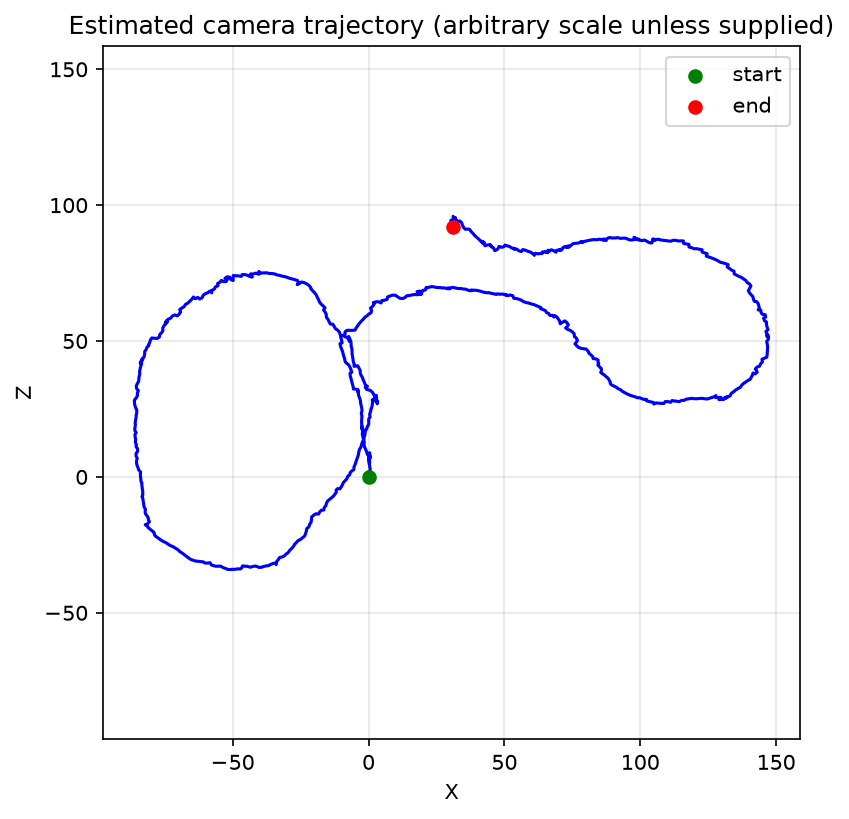
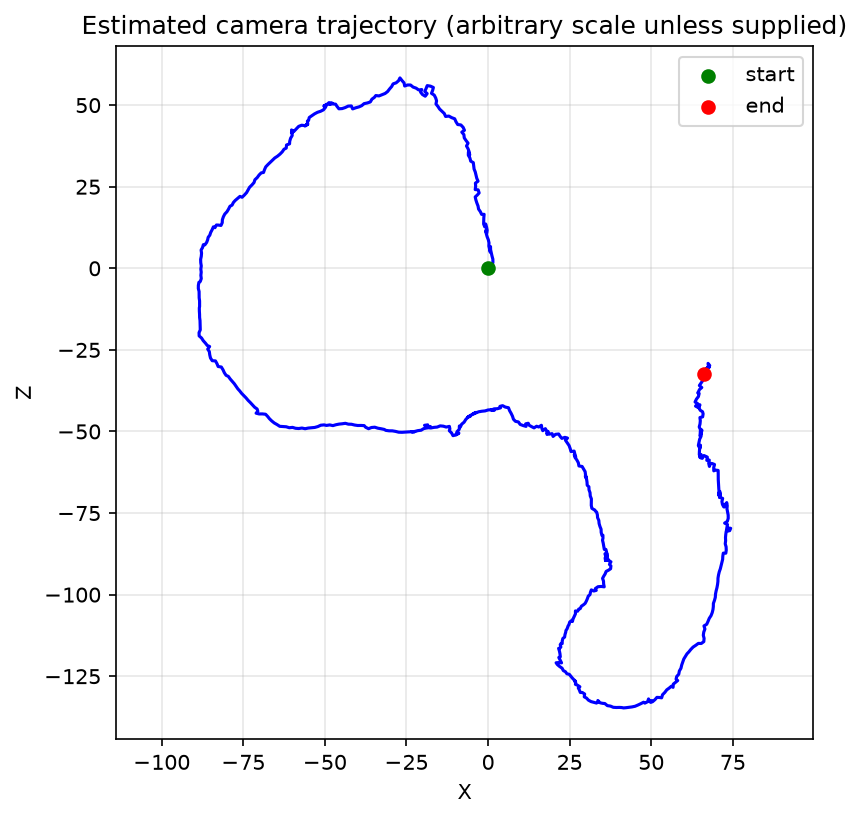
vo

diff --git a/orb-slam/monocular_vo_superpoints.py b/orb-slam/monocular_vo_superpoints.py
@@ -61,16 +61,6 @@ from lightglue import SuperPoint, LightGlue
 from lightglue.utils import load_image, rbd
 from superpoint_matcher import SuperPointMatcher
 
-try:
-    from python_orb_slam3 import ORBExtractor
-except ImportError as e:
-    raise ImportError(
-        "Could not import 'python_orb_slam3'. Install it with:\n"
-        "    pip install python-orb-slam3\n"
-        "(pre-built wheels are only published for AMD64/x86_64; on other "
-        "architectures you need to build it from source, see the project's "
-        "GitHub page for build instructions)."
-    ) from e
 
 
 # --------------------------------------------------------------------------- #
@@ -126,7 +116,6 @@ class MonocularVO:
         self.K = K
         # ORB-SLAM3's own feature extractor (quad-tree keypoint distribution),
         # API-compatible with cv2.ORB_create()'s detectAndCompute().
-        self.orb = ORBExtractor(n_features=n_features, scale_factor=1.2, n_levels=8)
         self.bf = cv2.BFMatcher(cv2.NORM_HAMMING, crossCheck=False)
         self.sp_matcher = SuperPointMatcher(max_keypoints=2048)
         # Define LSH index parameters for binary descriptors
@@ -162,9 +151,6 @@ class MonocularVO:
             return cv2.cvtColor(frame, cv2.COLOR_BGR2GRAY)
         return frame
 
-    def _detect(self, gray):
-        return self.orb.detectAndCompute(gray, None)
-    
     def _detect_superpoint(self, frame):
         return self.sp_matcher.detect_and_compute(frame)
     
@@ -188,20 +174,6 @@ class MonocularVO:
         """
         Processes one frame, updates the accumulated pose, and returns
         (kp, matches) for visualization purposes.
-        """
-        """
-        gray = self.to_gray(frame)
-        kp, des = self._detect(gray)
-
-        if self.prev_gray is None:
-            self.prev_gray, self.prev_kp, self.prev_des = gray, kp, des
-            return kp, []
-
-        matches = self._match(self.prev_des, des)
-
-        if len(matches) < self.min_matches:
-            self.prev_gray, self.prev_kp, self.prev_des = gray, kp, des
-            return kp, matches
         """
         #with super points
         gray = self.to_gray(frame)
@@ -254,7 +226,7 @@ def draw_trajectory_canvas(trajectory, canvas_size=600, world_scale=1.0):
     for p in trajectory:
         x, z = float(p[0, 0]), float(p[2, 0])
         px = int(x * world_scale) + cx
-        py = int(z * world_scale) + cy
+        py = int(-z * world_scale) + cy#make z-axis go "up" in the image
         pts.append((px, py))
 
     for i in range(1, len(pts)):

diff --git a/orb-slam/monocular_vo.py b/orb-slam/monocular_vo.py
@@ -231,7 +231,7 @@ def draw_trajectory_canvas(trajectory, canvas_size=600, world_scale=1.0):
     for p in trajectory:
         x, z = float(p[0, 0]), float(p[2, 0])
         px = int(x * world_scale) + cx
-        py = int(z * world_scale) + cy
+        py = int(-z * world_scale) + cy #make z-axis go "up" in the image
         pts.append((px, py))
 
     for i in range(1, len(pts)):
@@ -269,10 +269,10 @@ def main():
     parser = argparse.ArgumentParser(description="Monocular Visual Odometry (ORB + Essential matrix)")
     parser.add_argument("--source", default="vo_videos/vid1.mp4",
                          help="Webcam index (e.g. 0), path to a video file, or path to a folder of image frames")
-    parser.add_argument("--fx", type=float, default=990.57/2, help="Focal length x (pixels)")
-    parser.add_argument("--fy", type=float, default=991.07/2, help="Focal length y (pixels)")
-    parser.add_argument("--cx", type=float, default=372.83/2, help="Principal point x")
-    parser.add_argument("--cy", type=float, default=644.54/2, help="Principal point y")
+    parser.add_argument("--fx", type=float, default=990.57/1.5, help="Focal length x (pixels)")
+    parser.add_argument("--fy", type=float, default=991.07/1.5, help="Focal length y (pixels)")
+    parser.add_argument("--cx", type=float, default=372.83/1.5, help="Principal point x")
+    parser.add_argument("--cy", type=float, default=644.54/1.5, help="Principal point y")
     parser.add_argument("--scale", type=float, default=1.0,
                          help="Per-frame translation scale factor. Monocular VO has no absolute "
                               "scale; supply this from external info (e.g. constant speed * dt) "
@@ -298,7 +298,7 @@ def main():
             ok, frame = reader.read()
             if not ok or frame is None:
                 break
-            frame = cv2.resize(frame, (int(720*1/2), int(1280*1/2)))  # Resize for faster processing
+            frame = cv2.resize(frame, (int(720*1/1.5), int(1280*1/1.5)))  # Resize for faster processing
 
             kp, matches = vo.process_frame(frame, scale=args.scale)
             frame_count += 1

diff --git a/orb-slam/superpoint_matcher.py b/orb-slam/superpoint_matcher.py
@@ -39,7 +39,7 @@ class SuperPointMatcher:
         keypoints_cv = [cv2.KeyPoint(x=float(x), y=float(y), size=1.0) for x, y in keypoints_np]
         return keypoints_cv, feats
 
-    def match(self, feats0, feats1, min_confidence: float = 0.0):
+    def match(self, feats0, feats1, min_confidence: float = 0.90):
         """Equivalent to bf.knnMatch(des1, des2, k=2) + the 0.75 ratio test.
 
         LightGlue's raw output is already the confident, mutually-agreed
